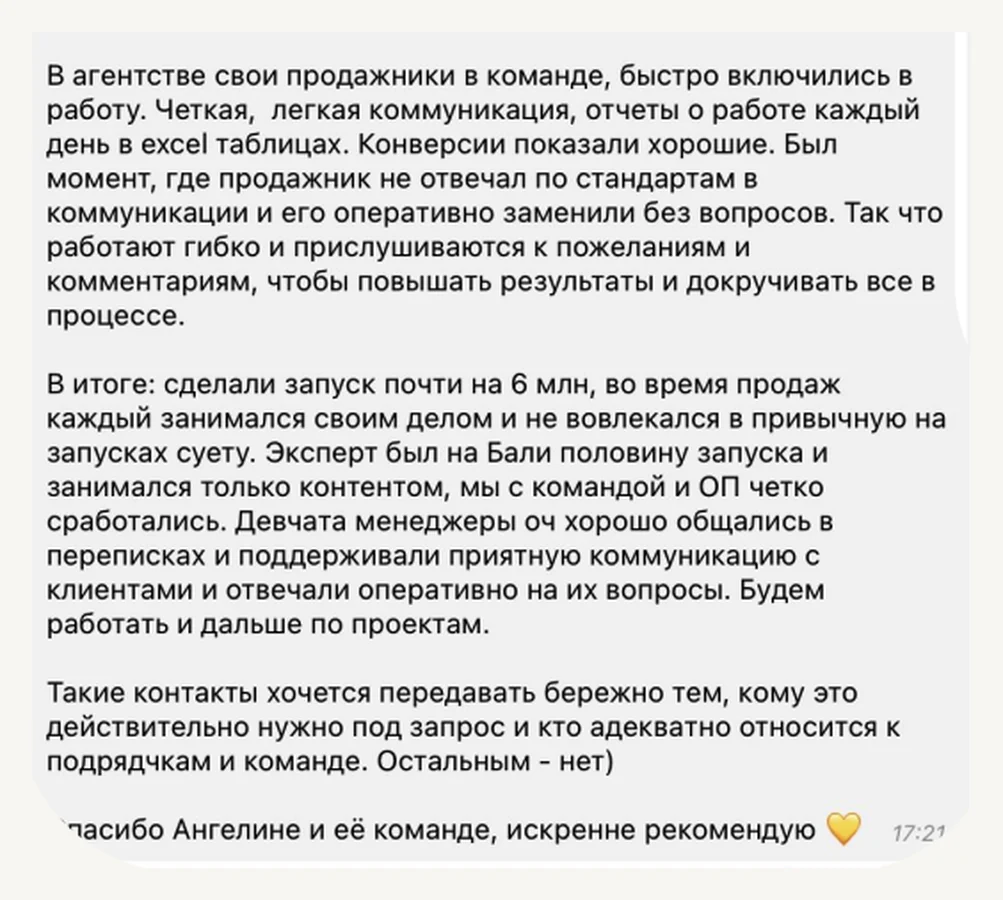
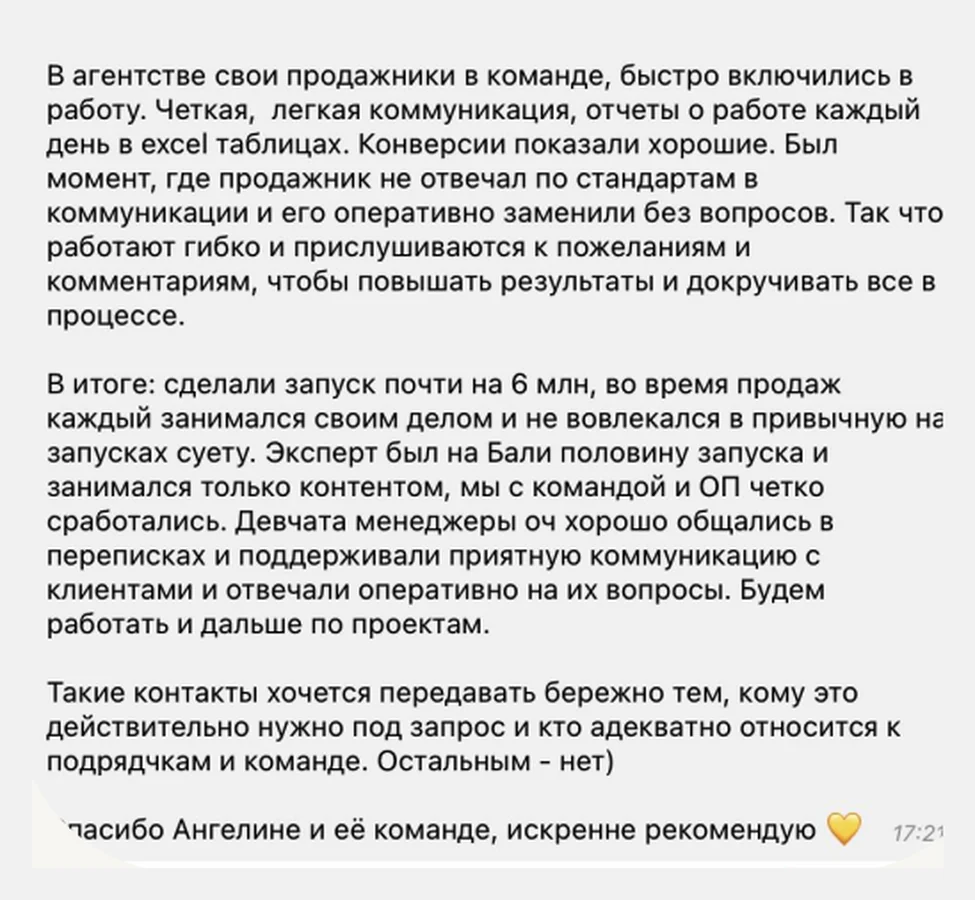
v19: reviews — clean crops, native lazy images, seamless loop

diff --git a/v19/index.html b/v19/index.html
@@ -662,52 +662,52 @@ if (document.documentElement.classList.contains("is-static")) document.addEventL
          движение — одна CSS-анимация, без таймеров. -->
     <div class="shots" aria-label="Скриншоты переписок">
       <ul class="shots__track" role="list">
-        <li class="shot"><button class="shot__btn" type="button" data-shot="assets/shots/shot-01.webp" aria-label="Открыть отзыв"><img class="shot__img" data-src="assets/shots/shot-01.webp" alt="Отзыв клиента" width="1292" height="900" decoding="async"></button></li>
-        <li class="shot"><button class="shot__btn" type="button" data-shot="assets/shots/shot-02.webp" aria-label="Открыть отзыв"><img class="shot__img" data-src="assets/shots/shot-02.webp" alt="Отзыв клиента" width="1003" height="900" decoding="async"></button></li>
-        <li class="shot"><button class="shot__btn" type="button" data-shot="assets/shots/shot-03.webp" aria-label="Открыть отзыв"><img class="shot__img" data-src="assets/shots/shot-03.webp" alt="Отзыв клиента" width="1170" height="900" decoding="async"></button></li>
-        <li class="shot"><button class="shot__btn" type="button" data-shot="assets/shots/shot-04.webp" aria-label="Открыть отзыв"><img class="shot__img" data-src="assets/shots/shot-04.webp" alt="Отзыв клиента" width="1265" height="900" decoding="async"></button></li>
-        <li class="shot"><button class="shot__btn" type="button" data-shot="assets/shots/shot-05.webp" aria-label="Открыть отзыв"><img class="shot__img" data-src="assets/shots/shot-05.webp" alt="Отзыв клиента" width="700" height="900" decoding="async"></button></li>
-        <li class="shot"><button class="shot__btn" type="button" data-shot="assets/shots/shot-06.webp" aria-label="Открыть отзыв"><img class="shot__img" data-src="assets/shots/shot-06.webp" alt="Отзыв клиента" width="1464" height="900" decoding="async"></button></li>
-        <li class="shot"><button class="shot__btn" type="button" data-shot="assets/shots/shot-07.webp" aria-label="Открыть отзыв"><img class="shot__img" data-src="assets/shots/shot-07.webp" alt="Отзыв клиента" width="1464" height="900" decoding="async"></button></li>
-        <li class="shot"><button class="shot__btn" type="button" data-shot="assets/shots/shot-08.webp" aria-label="Открыть отзыв"><img class="shot__img" data-src="assets/shots/shot-08.webp" alt="Отзыв клиента" width="1418" height="900" decoding="async"></button></li>
-        <li class="shot"><button class="shot__btn" type="button" data-shot="assets/shots/shot-09.webp" aria-label="Открыть отзыв"><img class="shot__img" data-src="assets/shots/shot-09.webp" alt="Отзыв клиента" width="1463" height="900" decoding="async"></button></li>
-        <li class="shot"><button class="shot__btn" type="button" data-shot="assets/shots/shot-10.webp" aria-label="Открыть отзыв"><img class="shot__img" data-src="assets/shots/shot-10.webp" alt="Отзыв клиента" width="1403" height="900" decoding="async"></button></li>
-        <li class="shot"><button class="shot__btn" type="button" data-shot="assets/shots/shot-11.webp" aria-label="Открыть отзыв"><img class="shot__img" data-src="assets/shots/shot-11.webp" alt="Отзыв клиента" width="1232" height="900" decoding="async"></button></li>
-        <li class="shot"><button class="shot__btn" type="button" data-shot="assets/shots/shot-12.webp" aria-label="Открыть отзыв"><img class="shot__img" data-src="assets/shots/shot-12.webp" alt="Отзыв клиента" width="1462" height="900" decoding="async"></button></li>
-        <li class="shot"><button class="shot__btn" type="button" data-shot="assets/shots/shot-13.webp" aria-label="Открыть отзыв"><img class="shot__img" data-src="assets/shots/shot-13.webp" alt="Отзыв клиента" width="1455" height="900" decoding="async"></button></li>
-        <li class="shot"><button class="shot__btn" type="button" data-shot="assets/shots/shot-14.webp" aria-label="Открыть отзыв"><img class="shot__img" data-src="assets/shots/shot-14.webp" alt="Отзыв клиента" width="1464" height="900" decoding="async"></button></li>
-        <li class="shot"><button class="shot__btn" type="button" data-shot="assets/shots/shot-15.webp" aria-label="Открыть отзыв"><img class="shot__img" data-src="assets/shots/shot-15.webp" alt="Отзыв клиента" width="1464" height="900" decoding="async"></button></li>
-        <li class="shot"><button class="shot__btn" type="button" data-shot="assets/shots/shot-16.webp" aria-label="Открыть отзыв"><img class="shot__img" data-src="assets/shots/shot-16.webp" alt="Отзыв клиента" width="647" height="900" decoding="async"></button></li>
-        <li class="shot"><button class="shot__btn" type="button" data-shot="assets/shots/shot-17.webp" aria-label="Открыть отзыв"><img class="shot__img" data-src="assets/shots/shot-17.webp" alt="Отзыв клиента" width="1462" height="900" decoding="async"></button></li>
-        <li class="shot"><button class="shot__btn" type="button" data-shot="assets/shots/shot-18.webp" aria-label="Открыть отзыв"><img class="shot__img" data-src="assets/shots/shot-18.webp" alt="Отзыв клиента" width="1464" height="900" decoding="async"></button></li>
-        <li class="shot"><button class="shot__btn" type="button" data-shot="assets/shots/shot-19.webp" aria-label="Открыть отзыв"><img class="shot__img" data-src="assets/shots/shot-19.webp" alt="Отзыв клиента" width="1391" height="900" decoding="async"></button></li>
-        <li class="shot"><button class="shot__btn" type="button" data-shot="assets/shots/shot-20.webp" aria-label="Открыть отзыв"><img class="shot__img" data-src="assets/shots/shot-20.webp" alt="Отзыв клиента" width="1462" height="900" decoding="async"></button></li>
-        <li class="shot"><button class="shot__btn" type="button" data-shot="assets/shots/shot-21.webp" aria-label="Открыть отзыв"><img class="shot__img" data-src="assets/shots/shot-21.webp" alt="Отзыв клиента" width="707" height="900" decoding="async"></button></li>
-        <li class="shot"><button class="shot__btn" type="button" data-shot="assets/shots/shot-22.webp" aria-label="Открыть отзыв"><img class="shot__img" data-src="assets/shots/shot-22.webp" alt="Отзыв клиента" width="1463" height="900" decoding="async"></button></li>
+        <li class="shot"><button class="shot__btn" type="button" data-shot="assets/shots/shot-01.webp?v=3" aria-label="Открыть отзыв"><img class="shot__img" loading="lazy" src="assets/shots/shot-01.webp?v=3" alt="Отзыв клиента" width="1255" height="900" decoding="async"></button></li>
+        <li class="shot"><button class="shot__btn" type="button" data-shot="assets/shots/shot-02.webp?v=3" aria-label="Открыть отзыв"><img class="shot__img" loading="lazy" src="assets/shots/shot-02.webp?v=3" alt="Отзыв клиента" width="975" height="900" decoding="async"></button></li>
+        <li class="shot"><button class="shot__btn" type="button" data-shot="assets/shots/shot-03.webp?v=3" aria-label="Открыть отзыв"><img class="shot__img" loading="lazy" src="assets/shots/shot-03.webp?v=3" alt="Отзыв клиента" width="1170" height="900" decoding="async"></button></li>
+        <li class="shot"><button class="shot__btn" type="button" data-shot="assets/shots/shot-04.webp?v=3" aria-label="Открыть отзыв"><img class="shot__img" loading="lazy" src="assets/shots/shot-04.webp?v=3" alt="Отзыв клиента" width="1265" height="900" decoding="async"></button></li>
+        <li class="shot"><button class="shot__btn" type="button" data-shot="assets/shots/shot-05.webp?v=3" aria-label="Открыть отзыв"><img class="shot__img" loading="lazy" src="assets/shots/shot-05.webp?v=3" alt="Отзыв клиента" width="700" height="900" decoding="async"></button></li>
+        <li class="shot"><button class="shot__btn" type="button" data-shot="assets/shots/shot-06.webp?v=3" aria-label="Открыть отзыв"><img class="shot__img" loading="lazy" src="assets/shots/shot-06.webp?v=3" alt="Отзыв клиента" width="1464" height="900" decoding="async"></button></li>
+        <li class="shot"><button class="shot__btn" type="button" data-shot="assets/shots/shot-07.webp?v=3" aria-label="Открыть отзыв"><img class="shot__img" loading="lazy" src="assets/shots/shot-07.webp?v=3" alt="Отзыв клиента" width="1464" height="900" decoding="async"></button></li>
+        <li class="shot"><button class="shot__btn" type="button" data-shot="assets/shots/shot-08.webp?v=3" aria-label="Открыть отзыв"><img class="shot__img" loading="lazy" src="assets/shots/shot-08.webp?v=3" alt="Отзыв клиента" width="1418" height="900" decoding="async"></button></li>
+        <li class="shot"><button class="shot__btn" type="button" data-shot="assets/shots/shot-09.webp?v=3" aria-label="Открыть отзыв"><img class="shot__img" loading="lazy" src="assets/shots/shot-09.webp?v=3" alt="Отзыв клиента" width="1463" height="900" decoding="async"></button></li>
+        <li class="shot"><button class="shot__btn" type="button" data-shot="assets/shots/shot-10.webp?v=3" aria-label="Открыть отзыв"><img class="shot__img" loading="lazy" src="assets/shots/shot-10.webp?v=3" alt="Отзыв клиента" width="1403" height="900" decoding="async"></button></li>
+        <li class="shot"><button class="shot__btn" type="button" data-shot="assets/shots/shot-11.webp?v=3" aria-label="Открыть отзыв"><img class="shot__img" loading="lazy" src="assets/shots/shot-11.webp?v=3" alt="Отзыв клиента" width="1232" height="900" decoding="async"></button></li>
+        <li class="shot"><button class="shot__btn" type="button" data-shot="assets/shots/shot-12.webp?v=4" aria-label="Открыть отзыв"><img class="shot__img" loading="lazy" src="assets/shots/shot-12.webp?v=4" alt="Отзыв клиента" width="1462" height="900" decoding="async"></button></li>
+        <li class="shot"><button class="shot__btn" type="button" data-shot="assets/shots/shot-13.webp?v=3" aria-label="Открыть отзыв"><img class="shot__img" loading="lazy" src="assets/shots/shot-13.webp?v=3" alt="Отзыв клиента" width="1455" height="900" decoding="async"></button></li>
+        <li class="shot"><button class="shot__btn" type="button" data-shot="assets/shots/shot-14.webp?v=3" aria-label="Открыть отзыв"><img class="shot__img" loading="lazy" src="assets/shots/shot-14.webp?v=3" alt="Отзыв клиента" width="1464" height="900" decoding="async"></button></li>
+        <li class="shot"><button class="shot__btn" type="button" data-shot="assets/shots/shot-15.webp?v=3" aria-label="Открыть отзыв"><img class="shot__img" loading="lazy" src="assets/shots/shot-15.webp?v=3" alt="Отзыв клиента" width="1464" height="900" decoding="async"></button></li>
+        <li class="shot"><button class="shot__btn" type="button" data-shot="assets/shots/shot-16.webp?v=3" aria-label="Открыть отзыв"><img class="shot__img" loading="lazy" src="assets/shots/shot-16.webp?v=3" alt="Отзыв клиента" width="647" height="900" decoding="async"></button></li>
+        <li class="shot"><button class="shot__btn" type="button" data-shot="assets/shots/shot-17.webp?v=3" aria-label="Открыть отзыв"><img class="shot__img" loading="lazy" src="assets/shots/shot-17.webp?v=3" alt="Отзыв клиента" width="1462" height="900" decoding="async"></button></li>
+        <li class="shot"><button class="shot__btn" type="button" data-shot="assets/shots/shot-18.webp?v=3" aria-label="Открыть отзыв"><img class="shot__img" loading="lazy" src="assets/shots/shot-18.webp?v=3" alt="Отзыв клиента" width="1464" height="900" decoding="async"></button></li>
+        <li class="shot"><button class="shot__btn" type="button" data-shot="assets/shots/shot-19.webp?v=3" aria-label="Открыть отзыв"><img class="shot__img" loading="lazy" src="assets/shots/shot-19.webp?v=3" alt="Отзыв клиента" width="1412" height="900" decoding="async"></button></li>
+        <li class="shot"><button class="shot__btn" type="button" data-shot="assets/shots/shot-20.webp?v=3" aria-label="Открыть отзыв"><img class="shot__img" loading="lazy" src="assets/shots/shot-20.webp?v=3" alt="Отзыв клиента" width="1462" height="900" decoding="async"></button></li>
+        <li class="shot"><button class="shot__btn" type="button" data-shot="assets/shots/shot-21.webp?v=3" aria-label="Открыть отзыв"><img class="shot__img" loading="lazy" src="assets/shots/shot-21.webp?v=3" alt="Отзыв клиента" width="707" height="900" decoding="async"></button></li>
+        <li class="shot"><button class="shot__btn" type="button" data-shot="assets/shots/shot-22.webp?v=3" aria-label="Открыть отзыв"><img class="shot__img" loading="lazy" src="assets/shots/shot-22.webp?v=3" alt="Отзыв клиента" width="1463" height="900" decoding="async"></button></li>
       </ul>
       <ul class="shots__track" role="list" aria-hidden="true">
-        <li class="shot"><button class="shot__btn" type="button" data-shot="assets/shots/shot-01.webp" tabindex="-1" aria-label="Открыть отзыв"><img class="shot__img" data-src="assets/shots/shot-01.webp" alt="" width="1292" height="900" decoding="async"></button></li>
-        <li class="shot"><button class="shot__btn" type="button" data-shot="assets/shots/shot-02.webp" tabindex="-1" aria-label="Открыть отзыв"><img class="shot__img" data-src="assets/shots/shot-02.webp" alt="" width="1003" height="900" decoding="async"></button></li>
-        <li class="shot"><button class="shot__btn" type="button" data-shot="assets/shots/shot-03.webp" tabindex="-1" aria-label="Открыть отзыв"><img class="shot__img" data-src="assets/shots/shot-03.webp" alt="" width="1170" height="900" decoding="async"></button></li>
-        <li class="shot"><button class="shot__btn" type="button" data-shot="assets/shots/shot-04.webp" tabindex="-1" aria-label="Открыть отзыв"><img class="shot__img" data-src="assets/shots/shot-04.webp" alt="" width="1265" height="900" decoding="async"></button></li>
-        <li class="shot"><button class="shot__btn" type="button" data-shot="assets/shots/shot-05.webp" tabindex="-1" aria-label="Открыть отзыв"><img class="shot__img" data-src="assets/shots/shot-05.webp" alt="" width="700" height="900" decoding="async"></button></li>
-        <li class="shot"><button class="shot__btn" type="button" data-shot="assets/shots/shot-06.webp" tabindex="-1" aria-label="Открыть отзыв"><img class="shot__img" data-src="assets/shots/shot-06.webp" alt="" width="1464" height="900" decoding="async"></button></li>
-        <li class="shot"><button class="shot__btn" type="button" data-shot="assets/shots/shot-07.webp" tabindex="-1" aria-label="Открыть отзыв"><img class="shot__img" data-src="assets/shots/shot-07.webp" alt="" width="1464" height="900" decoding="async"></button></li>
-        <li class="shot"><button class="shot__btn" type="button" data-shot="assets/shots/shot-08.webp" tabindex="-1" aria-label="Открыть отзыв"><img class="shot__img" data-src="assets/shots/shot-08.webp" alt="" width="1418" height="900" decoding="async"></button></li>
-        <li class="shot"><button class="shot__btn" type="button" data-shot="assets/shots/shot-09.webp" tabindex="-1" aria-label="Открыть отзыв"><img class="shot__img" data-src="assets/shots/shot-09.webp" alt="" width="1463" height="900" decoding="async"></button></li>
-        <li class="shot"><button class="shot__btn" type="button" data-shot="assets/shots/shot-10.webp" tabindex="-1" aria-label="Открыть отзыв"><img class="shot__img" data-src="assets/shots/shot-10.webp" alt="" width="1403" height="900" decoding="async"></button></li>
-        <li class="shot"><button class="shot__btn" type="button" data-shot="assets/shots/shot-11.webp" tabindex="-1" aria-label="Открыть отзыв"><img class="shot__img" data-src="assets/shots/shot-11.webp" alt="" width="1232" height="900" decoding="async"></button></li>
-        <li class="shot"><button class="shot__btn" type="button" data-shot="assets/shots/shot-12.webp" tabindex="-1" aria-label="Открыть отзыв"><img class="shot__img" data-src="assets/shots/shot-12.webp" alt="" width="1462" height="900" decoding="async"></button></li>
-        <li class="shot"><button class="shot__btn" type="button" data-shot="assets/shots/shot-13.webp" tabindex="-1" aria-label="Открыть отзыв"><img class="shot__img" data-src="assets/shots/shot-13.webp" alt="" width="1455" height="900" decoding="async"></button></li>
-        <li class="shot"><button class="shot__btn" type="button" data-shot="assets/shots/shot-14.webp" tabindex="-1" aria-label="Открыть отзыв"><img class="shot__img" data-src="assets/shots/shot-14.webp" alt="" width="1464" height="900" decoding="async"></button></li>
-        <li class="shot"><button class="shot__btn" type="button" data-shot="assets/shots/shot-15.webp" tabindex="-1" aria-label="Открыть отзыв"><img class="shot__img" data-src="assets/shots/shot-15.webp" alt="" width="1464" height="900" decoding="async"></button></li>
-        <li class="shot"><button class="shot__btn" type="button" data-shot="assets/shots/shot-16.webp" tabindex="-1" aria-label="Открыть отзыв"><img class="shot__img" data-src="assets/shots/shot-16.webp" alt="" width="647" height="900" decoding="async"></button></li>
-        <li class="shot"><button class="shot__btn" type="button" data-shot="assets/shots/shot-17.webp" tabindex="-1" aria-label="Открыть отзыв"><img class="shot__img" data-src="assets/shots/shot-17.webp" alt="" width="1462" height="900" decoding="async"></button></li>
-        <li class="shot"><button class="shot__btn" type="button" data-shot="assets/shots/shot-18.webp" tabindex="-1" aria-label="Открыть отзыв"><img class="shot__img" data-src="assets/shots/shot-18.webp" alt="" width="1464" height="900" decoding="async"></button></li>
-        <li class="shot"><button class="shot__btn" type="button" data-shot="assets/shots/shot-19.webp" tabindex="-1" aria-label="Открыть отзыв"><img class="shot__img" data-src="assets/shots/shot-19.webp" alt="" width="1391" height="900" decoding="async"></button></li>
-        <li class="shot"><button class="shot__btn" type="button" data-shot="assets/shots/shot-20.webp" tabindex="-1" aria-label="Открыть отзыв"><img class="shot__img" data-src="assets/shots/shot-20.webp" alt="" width="1462" height="900" decoding="async"></button></li>
-        <li class="shot"><button class="shot__btn" type="button" data-shot="assets/shots/shot-21.webp" tabindex="-1" aria-label="Открыть отзыв"><img class="shot__img" data-src="assets/shots/shot-21.webp" alt="" width="707" height="900" decoding="async"></button></li>
-        <li class="shot"><button class="shot__btn" type="button" data-shot="assets/shots/shot-22.webp" tabindex="-1" aria-label="Открыть отзыв"><img class="shot__img" data-src="assets/shots/shot-22.webp" alt="" width="1463" height="900" decoding="async"></button></li>
+        <li class="shot"><button class="shot__btn" type="button" data-shot="assets/shots/shot-01.webp?v=3" tabindex="-1" aria-label="Открыть отзыв"><img class="shot__img" loading="lazy" src="assets/shots/shot-01.webp?v=3" alt="" width="1255" height="900" decoding="async"></button></li>
+        <li class="shot"><button class="shot__btn" type="button" data-shot="assets/shots/shot-02.webp?v=3" tabindex="-1" aria-label="Открыть отзыв"><img class="shot__img" loading="lazy" src="assets/shots/shot-02.webp?v=3" alt="" width="975" height="900" decoding="async"></button></li>
+        <li class="shot"><button class="shot__btn" type="button" data-shot="assets/shots/shot-03.webp?v=3" tabindex="-1" aria-label="Открыть отзыв"><img class="shot__img" loading="lazy" src="assets/shots/shot-03.webp?v=3" alt="" width="1170" height="900" decoding="async"></button></li>
+        <li class="shot"><button class="shot__btn" type="button" data-shot="assets/shots/shot-04.webp?v=3" tabindex="-1" aria-label="Открыть отзыв"><img class="shot__img" loading="lazy" src="assets/shots/shot-04.webp?v=3" alt="" width="1265" height="900" decoding="async"></button></li>
+        <li class="shot"><button class="shot__btn" type="button" data-shot="assets/shots/shot-05.webp?v=3" tabindex="-1" aria-label="Открыть отзыв"><img class="shot__img" loading="lazy" src="assets/shots/shot-05.webp?v=3" alt="" width="700" height="900" decoding="async"></button></li>
+        <li class="shot"><button class="shot__btn" type="button" data-shot="assets/shots/shot-06.webp?v=3" tabindex="-1" aria-label="Открыть отзыв"><img class="shot__img" loading="lazy" src="assets/shots/shot-06.webp?v=3" alt="" width="1464" height="900" decoding="async"></button></li>
+        <li class="shot"><button class="shot__btn" type="button" data-shot="assets/shots/shot-07.webp?v=3" tabindex="-1" aria-label="Открыть отзыв"><img class="shot__img" loading="lazy" src="assets/shots/shot-07.webp?v=3" alt="" width="1464" height="900" decoding="async"></button></li>
+        <li class="shot"><button class="shot__btn" type="button" data-shot="assets/shots/shot-08.webp?v=3" tabindex="-1" aria-label="Открыть отзыв"><img class="shot__img" loading="lazy" src="assets/shots/shot-08.webp?v=3" alt="" width="1418" height="900" decoding="async"></button></li>
+        <li class="shot"><button class="shot__btn" type="button" data-shot="assets/shots/shot-09.webp?v=3" tabindex="-1" aria-label="Открыть отзыв"><img class="shot__img" loading="lazy" src="assets/shots/shot-09.webp?v=3" alt="" width="1463" height="900" decoding="async"></button></li>
+        <li class="shot"><button class="shot__btn" type="button" data-shot="assets/shots/shot-10.webp?v=3" tabindex="-1" aria-label="Открыть отзыв"><img class="shot__img" loading="lazy" src="assets/shots/shot-10.webp?v=3" alt="" width="1403" height="900" decoding="async"></button></li>
+        <li class="shot"><button class="shot__btn" type="button" data-shot="assets/shots/shot-11.webp?v=3" tabindex="-1" aria-label="Открыть отзыв"><img class="shot__img" loading="lazy" src="assets/shots/shot-11.webp?v=3" alt="" width="1232" height="900" decoding="async"></button></li>
+        <li class="shot"><button class="shot__btn" type="button" data-shot="assets/shots/shot-12.webp?v=4" tabindex="-1" aria-label="Открыть отзыв"><img class="shot__img" loading="lazy" src="assets/shots/shot-12.webp?v=4" alt="" width="1462" height="900" decoding="async"></button></li>
+        <li class="shot"><button class="shot__btn" type="button" data-shot="assets/shots/shot-13.webp?v=3" tabindex="-1" aria-label="Открыть отзыв"><img class="shot__img" loading="lazy" src="assets/shots/shot-13.webp?v=3" alt="" width="1455" height="900" decoding="async"></button></li>
+        <li class="shot"><button class="shot__btn" type="button" data-shot="assets/shots/shot-14.webp?v=3" tabindex="-1" aria-label="Открыть отзыв"><img class="shot__img" loading="lazy" src="assets/shots/shot-14.webp?v=3" alt="" width="1464" height="900" decoding="async"></button></li>
+        <li class="shot"><button class="shot__btn" type="button" data-shot="assets/shots/shot-15.webp?v=3" tabindex="-1" aria-label="Открыть отзыв"><img class="shot__img" loading="lazy" src="assets/shots/shot-15.webp?v=3" alt="" width="1464" height="900" decoding="async"></button></li>
+        <li class="shot"><button class="shot__btn" type="button" data-shot="assets/shots/shot-16.webp?v=3" tabindex="-1" aria-label="Открыть отзыв"><img class="shot__img" loading="lazy" src="assets/shots/shot-16.webp?v=3" alt="" width="647" height="900" decoding="async"></button></li>
+        <li class="shot"><button class="shot__btn" type="button" data-shot="assets/shots/shot-17.webp?v=3" tabindex="-1" aria-label="Открыть отзыв"><img class="shot__img" loading="lazy" src="assets/shots/shot-17.webp?v=3" alt="" width="1462" height="900" decoding="async"></button></li>
+        <li class="shot"><button class="shot__btn" type="button" data-shot="assets/shots/shot-18.webp?v=3" tabindex="-1" aria-label="Открыть отзыв"><img class="shot__img" loading="lazy" src="assets/shots/shot-18.webp?v=3" alt="" width="1464" height="900" decoding="async"></button></li>
+        <li class="shot"><button class="shot__btn" type="button" data-shot="assets/shots/shot-19.webp?v=3" tabindex="-1" aria-label="Открыть отзыв"><img class="shot__img" loading="lazy" src="assets/shots/shot-19.webp?v=3" alt="" width="1412" height="900" decoding="async"></button></li>
+        <li class="shot"><button class="shot__btn" type="button" data-shot="assets/shots/shot-20.webp?v=3" tabindex="-1" aria-label="Открыть отзыв"><img class="shot__img" loading="lazy" src="assets/shots/shot-20.webp?v=3" alt="" width="1462" height="900" decoding="async"></button></li>
+        <li class="shot"><button class="shot__btn" type="button" data-shot="assets/shots/shot-21.webp?v=3" tabindex="-1" aria-label="Открыть отзыв"><img class="shot__img" loading="lazy" src="assets/shots/shot-21.webp?v=3" alt="" width="707" height="900" decoding="async"></button></li>
+        <li class="shot"><button class="shot__btn" type="button" data-shot="assets/shots/shot-22.webp?v=3" tabindex="-1" aria-label="Открыть отзыв"><img class="shot__img" loading="lazy" src="assets/shots/shot-22.webp?v=3" alt="" width="1463" height="900" decoding="async"></button></li>
       </ul>
     </div>
   </div>
@@ -1453,7 +1453,7 @@ if (document.documentElement.classList.contains("is-static")) document.addEventL
   <button class="cookie__ok" type="button" data-cookie-ok>Понятно</button>
 </div>
 <script>window.GG_FORM = { endpoint: /github\.io$|^localhost$|^127\./.test(location.hostname) ? "" : "gg-lead.php", site: "v19" };</script>
-<script src="main.min.js?v=19000070"></script>
+<script src="main.min.js?v=19000080"></script>
 <script src="leak-crystal.min.js?v=19000020" defer></script>
 <script src="orbit.min.js?v=19000020" defer></script>
 <script src="path-crystal.min.js?v=19000020" defer></script>
